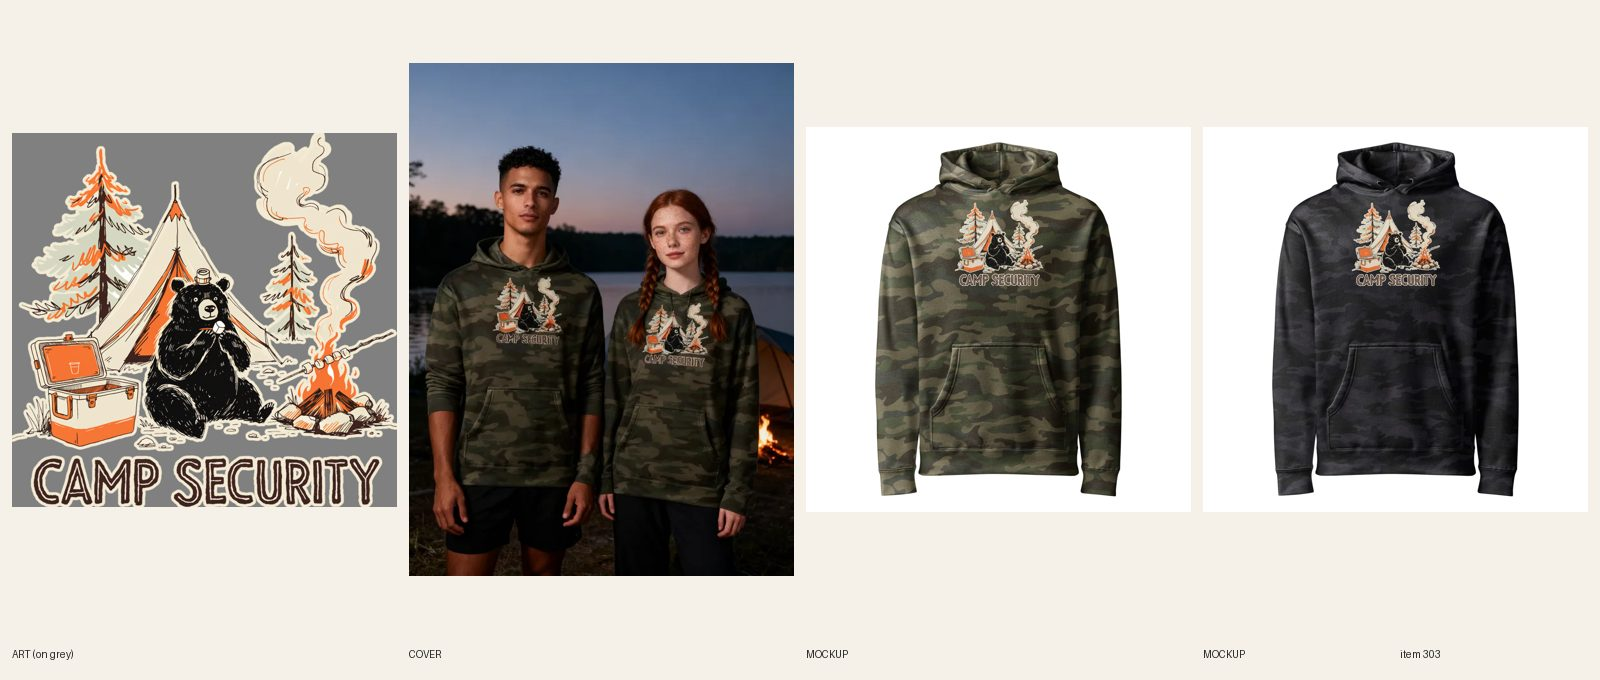
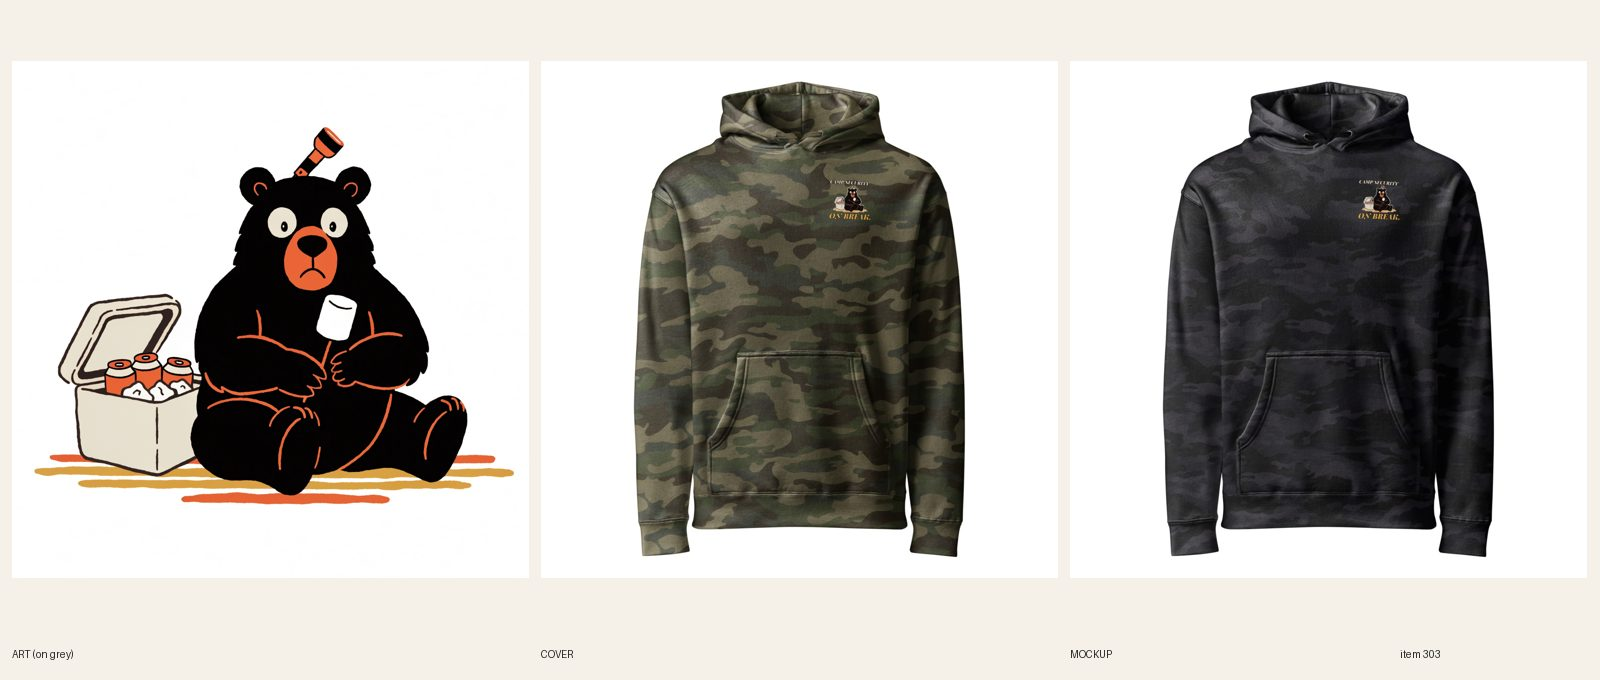
[B] wip 303 camo redo

diff --git a/src/data/covers.ts b/src/data/covers.ts
@@ -323,7 +323,6 @@ export const covers: Record<string, { src: string; alt: string }> = {
   'womens-hunting-doe-not-disturb-camo-hoodie': { src: '/covers/womens-hunting-doe-not-disturb-camo-hoodie.webp', alt: 'Woman in her early 30s with long straight dark hair and curtain bangs in a Forest Camo Doe Not Disturb sleepy doe hoodie at the tailgate of a pickup at the edge of a hayfield at golden hour with a thermos beside her' },
   'mens-hunting-i-saw-you-move-squirrel-camo-hoodie': { src: '/covers/mens-hunting-i-saw-you-move-squirrel-camo-hoodie.webp', alt: 'Man in his mid 30s with a red-brown full beard and a blaze orange knit beanie in a Forest Camo I Saw You Move squirrel hoodie at the foot of a ladder tree stand in frosty hardwoods at first light' },
   'mens-hunting-antler-envy-buck-camo-hoodie': { src: '/covers/mens-hunting-antler-envy-buck-camo-hoodie.webp', alt: 'Man in his late 40s with long black hair tied back in a Darkwood Tree Camo Antler Envy buck hoodie on a dirt two-track through autumn woods beside a pickup with the tailgate down' },
-  'unisex-camping-camp-security-bear-camo-hoodie': { src: '/covers/unisex-camping-camp-security-bear-camo-hoodie.webp', alt: 'Man and woman in matching Forest Camo Camp Security bear hoodies at a lakeside campsite at dusk with a tent and a small campfire' },
   'unisex-possum-playing-dead-camo-hoodie': { src: '/covers/unisex-possum-playing-dead-camo-hoodie.webp', alt: 'Man and woman in matching Forest Camo Playing Dead Till Friday possum hoodies standing by a leafy college-town park bench in October with coffee cups beside them' },
   'mens-hunting-call-me-after-duck-season-camo-sweatshirt': { src: '/covers/mens-hunting-call-me-after-duck-season-camo-sweatshirt.webp', alt: 'Man in his early 60s with a bald head and a grey goatee in an all-over woodland camo Call Me After Duck Season sweatshirt at a marsh boat ramp at sunrise with a dog sitting beside him' },
   'womens-hunting-here-for-the-sunrise-camo-sweatshirt': { src: '/covers/womens-hunting-here-for-the-sunrise-camo-sweatshirt.webp', alt: 'Woman in her late 40s with shoulder-length brown hair and caramel highlights smiling in an all-over woodland camo Only Here for the Sunrise sweatshirt in a wooden duck blind on a marsh at sunrise with a thermos on the bench' },

diff --git a/scripts/pf-mockup.py b/scripts/pf-mockup.py
@@ -17,7 +17,7 @@ pf = call('GET', f'/mockup-generator/printfiles/{cat}')
 vp = pf['variant_printfiles'][0]['placements']; P = {p['printfile_id']: p for p in pf['printfiles']}
 fa = P[vp['front']]; aw, ah = fa['width'], fa['height']
 fw = min(aw, int(os.environ.get('FW', 1500))); nh = round(fw * h / w)  # 10 in wide at 150 dpi, 0.5 in below the top of the print area
-files = [{'placement': 'front', 'image_url': fu, 'position': {'area_width': aw, 'area_height': ah, 'width': fw, 'height': nh, 'top': int(os.environ.get('TOP', 75)), 'left': (aw - fw) // 2}}]
+files = [{'placement': 'front', 'image_url': fu, 'position': {'area_width': aw, 'area_height': ah, 'width': fw, 'height': nh, 'top': int(os.environ.get('TOP', 75)), 'left': int(os.environ['LEFT']) if os.environ.get('LEFT') else (aw - fw) // 2}}]
 if bu != '-':
     ba = P[vp['back']]; bw = round(ba['width'] * 0.3)
     files.append({'placement': 'back', 'image_url': bu, 'position': {'area_width': ba['width'], 'area_height': ba['height'], 'width': bw, 'height': bw, 'top': 0, 'left': round((ba['width'] - bw) / 2)}})

diff --git a/scripts/pf-sync.py b/scripts/pf-sync.py
@@ -25,7 +25,7 @@ def front_pos(variant_id, w, h):
     pf = call('GET', f'/mockup-generator/printfiles/{pid}')
     vp = next(x for x in pf['variant_printfiles'] if x['variant_id'] == variant_id)['placements']['front']
     a = next(x for x in pf['printfiles'] if x['printfile_id'] == vp); fw = min(a['width'], int(os.environ.get('FW', 1500)))
-    return {'area_width': a['width'], 'area_height': a['height'], 'width': fw, 'height': round(fw * h / w), 'top': int(os.environ.get('TOP', 75)), 'left': (a['width'] - fw) // 2}
+    return {'area_width': a['width'], 'area_height': a['height'], 'width': fw, 'height': round(fw * h / w), 'top': int(os.environ.get('TOP', 75)), 'left': int(os.environ['LEFT']) if os.environ.get('LEFT') else (a['width'] - fw) // 2}
 cmd = sys.argv[1]
 if cmd == 'upload':
     print(call('POST', '/files', {'url': sys.argv[2], 'filename': sys.argv[3], 'visible': True})['id'])
